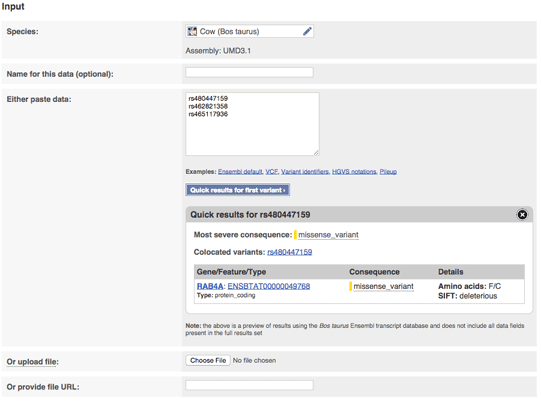
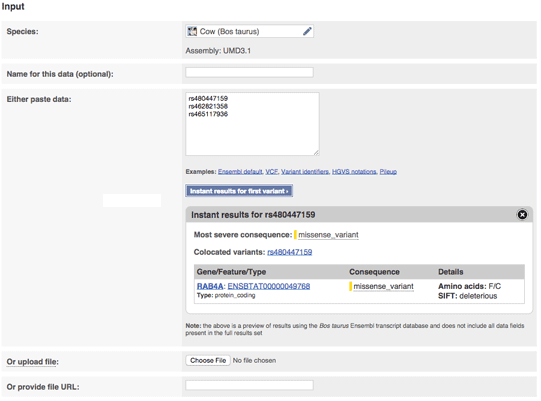
change name of VEP preview from quick to instant

Changed region(s): [[0.3253, 0.4489, 0.5915, 0.5686]]

diff --git a/tools/htdocs/components/20_VEPForm.js b/tools/htdocs/components/20_VEPForm.js
@@ -243,7 +243,7 @@ Ensembl.Panel.VEPForm = Ensembl.Panel.ToolsForm.extend({
     // HTML for preview content
     this.elLk.previewDiv.html(
       '<div class="hint">' +
-        '<h3><img src="/i/close.png" alt="Hide" class="_close_button" title="">Quick results for ' + this.previewInp.input + '</h3>' +
+        '<h3><img src="/i/close.png" alt="Hide" class="_close_button" title="">Instant results for ' + this.previewInp.input + '</h3>' +
         '<div class="message-pad _preview_table" style="background-color:white">' +
           '<p><b>Most severe consequence:</b> ' + renderConsequence(results['most_severe_consequence']) + '</p>' +
           ( results['colocated_variants']

diff --git a/docs/htdocs/info/docs/tools/vep/online/input.html b/docs/htdocs/info/docs/tools/vep/online/input.html
@@ -52,7 +52,7 @@ enter your data and alter various options.</p>
                   format</a> documentation. </p>
               </li>
               
-              <li> For pasted data you can get a preview of the results of your
+              <li> For pasted data you can get an instant preview of the results of your
               first variant by clicking the button that appears when you paste
               your data. This quickly shows you the consequence type, the IDs of
               any overlapping variants, genes, transcripts and regulatory
